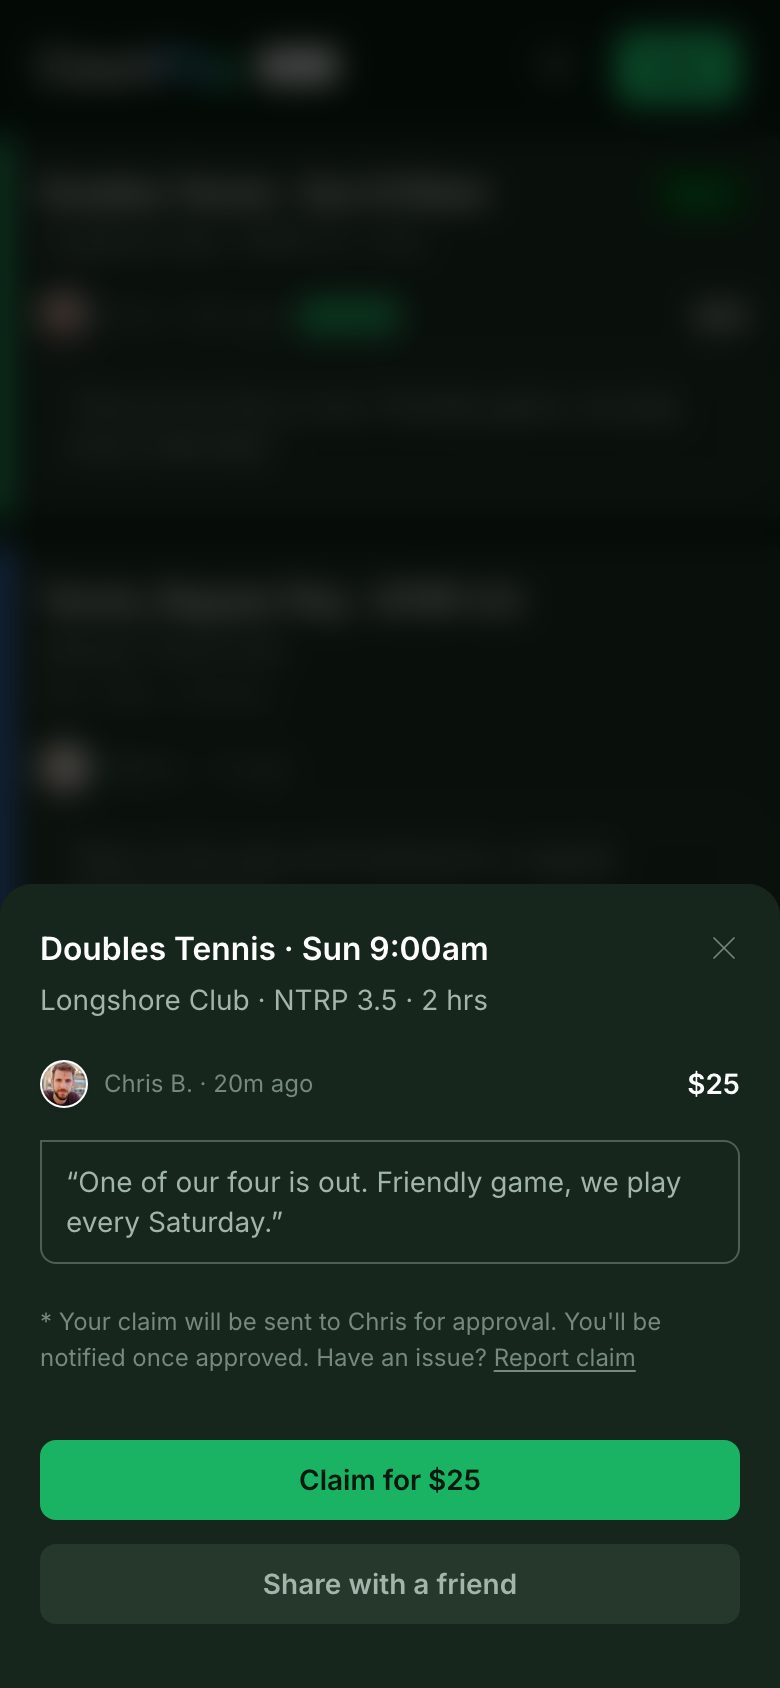
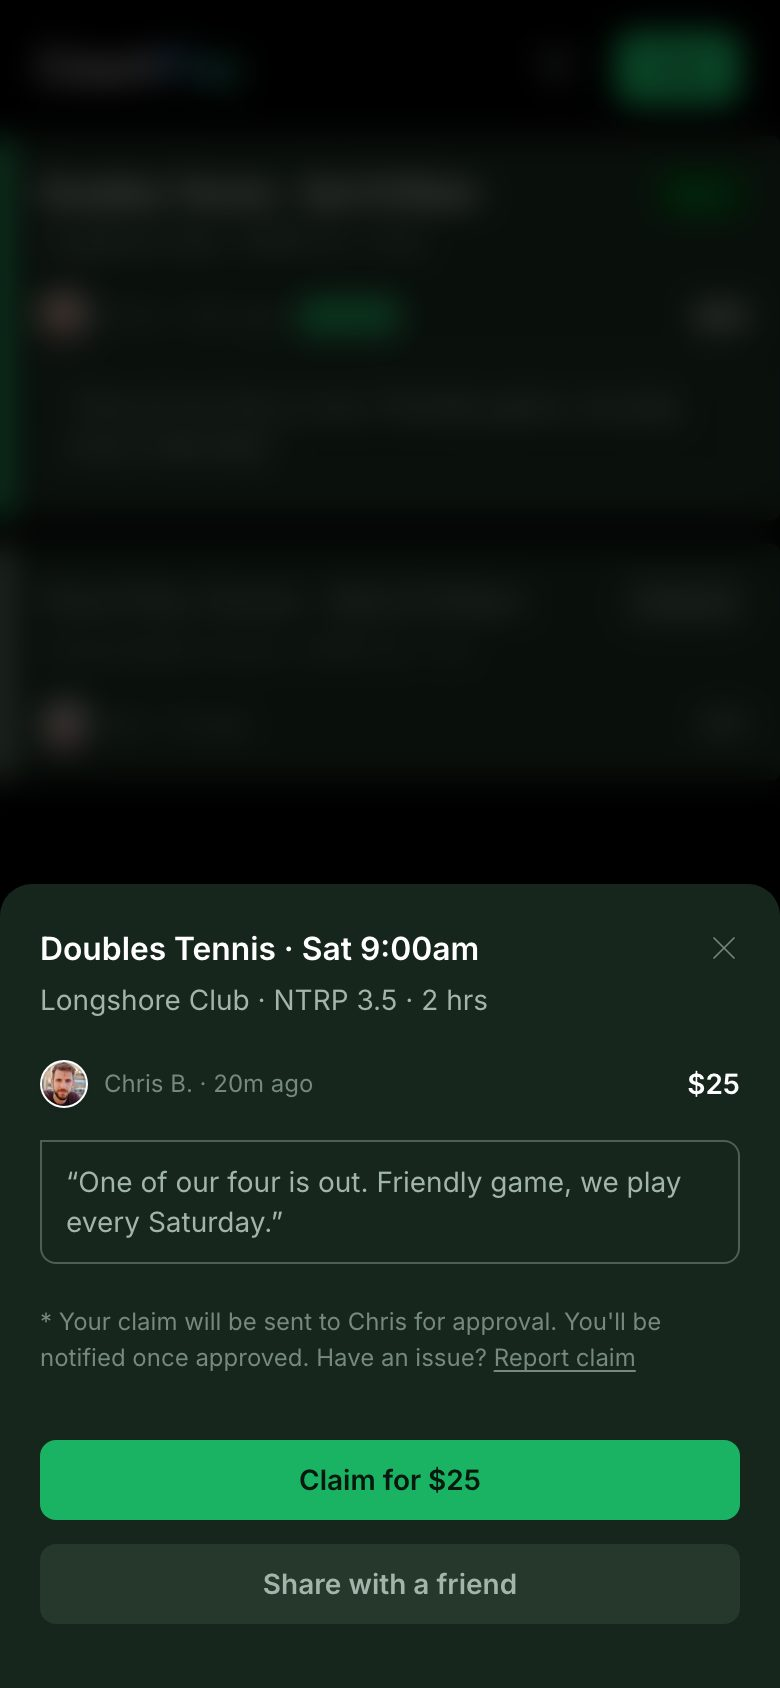
Work through the per-step notes on the tutorial (#235)
Step 1  the "You're in a group" banner. The feed only raises it for a group
        you did NOT create, are still in, and joined inside a week, so the
        demo group changed to match; the post now reads Sat.

Step 2  the blue smear down the left edge was a regular-play card's accent bar
        behind the backdrop blur. The backdrop is sub cards only.

Step 3  the Reply field. It renders only when the sheet is given somewhere to
        send to, and the demo was not passing onReply.

Step 5  Created posts, two open posts. Activity reads its tab from ?tab=, set
        on the router DemoProviders creates -- nesting a second Router is an
        error in react router, which is how the first attempt failed.

Step 6  the second group is active rather than closed.

All     no Beta pill, and black behind the whole screen. The app's own
        bg-primary showed as a lighter strip above and below the content,
        where a real device has its status bar and browser chrome.

        Both are screenshot-only: they live in demo-entry.tsx, which runs
        behind demo.html during a capture and is not in the app. Verified --
        the built bundle still ships the Beta tag and neither override.

        The tutorial itself locks vertical scroll, so it swipes sideways and
        does not rubber-band like a web page. Skip and Go to CourtPlay use
        text-brand-500, the design's text/brand.

NOT DONE: an avatar image for the demo player on step 6. There are three
[…]

Changed region(s): [[0.0, 0.4005, 0.1231, 0.5545], [0.3077, 0.0, 0.4615, 0.0616], [0.4, 0.5545, 0.6154, 0.5853]]

diff --git a/src/demo/screens.tsx b/src/demo/screens.tsx
@@ -4,10 +4,9 @@ import { Profile } from "@/pages/profile";
 import { PostNew } from "@/pages/post-new";
 import { AppLayout } from "@/components/layout/app-layout";
 import { SubCard } from "@/components/app/sub-card";
-import { RegularPlayCard } from "@/components/app/regular-play-card";
 import { ClaimDetailSheet } from "@/components/app/claim-detail-sheet";
 import { CreatedDetailSheet } from "@/components/app/created-detail-sheet";
-import { DEMO_MY_POST, DEMO_POSTER, DEMO_SUB_POST, DEMO_REGULAR_POST, DEMO_VIEWER_ID } from "./fixtures";
+import { DEMO_MY_POST, DEMO_POSTER, DEMO_CLAIMED_POST, DEMO_SUB_POST, DEMO_VIEWER_ID } from "./fixtures";
 
 /**
  * The screens behind the tutorial screenshots.
@@ -28,12 +27,18 @@ import { DEMO_MY_POST, DEMO_POSTER, DEMO_SUB_POST, DEMO_REGULAR_POST, DEMO_VIEWE
  */
 const noop = () => {};
 
-/** The feed behind a sheet: in the app every sheet opens over it. */
+/**
+ * The feed behind a sheet: in the app every sheet opens over it.
+ *
+ * Sub cards only. A regular-play card's blue accent bar smears into a blue
+ * gradient down the left edge once the backdrop blur hits it, which reads as a
+ * rendering fault rather than as a card.
+ */
 const FeedBehind = () => (
     <AppLayout onOpenFilters={noop}>
         <div className="flex flex-col gap-3">
             <SubCard post={DEMO_SUB_POST} currentUserId={DEMO_VIEWER_ID} />
-            <RegularPlayCard post={DEMO_REGULAR_POST} profileComplete currentUserId={DEMO_VIEWER_ID} />
+            <SubCard post={DEMO_CLAIMED_POST} currentUserId={DEMO_VIEWER_ID} />
         </div>
     </AppLayout>
 );
@@ -59,6 +64,9 @@ export const DEMO_SCREENS: Record<string, () => React.ReactElement> = {
                 onDecline={noop}
                 onEdit={noop}
                 onDelete={noop}
+                // The reply field only renders when the sheet is given somewhere
+                // to send to, and the design shows it.
+                onReply={noop}
             />
         </>
     ),
@@ -68,6 +76,17 @@ export const DEMO_SCREENS: Record<string, () => React.ReactElement> = {
     activity: () => <Activity />,
 
     groups: () => <Profile />,
+};
+
+/**
+ * Where a screen believes it is. Activity opens on the tab named in ?tab=, and
+ * the design shows Created posts.
+ *
+ * Set on the router DemoProviders creates, rather than by nesting one — react
+ * router forbids a Router inside a Router.
+ */
+export const SCREEN_ROUTES: Record<string, string> = {
+    activity: "/activity?tab=created",
 };
 
 export type DemoScreenId = keyof typeof DEMO_SCREENS;

diff --git a/src/demo/fixtures.ts b/src/demo/fixtures.ts
@@ -83,7 +83,7 @@ export const DEMO_SUB_POST: FeedPost = {
     post_type: "sub_need",
     play_type: "doubles",
     duration: 2,
-    game_date: "2026-05-17",
+    game_date: "2026-05-16",
     game_time: "09:00",
     skill_level: "3.5",
     location: "Longshore Club",
@@ -206,10 +206,12 @@ export const DEMO_GROUPS: GroupSummary[] = [
         id: "demo-group-1",
         name: "Sunday Doubles",
         details: "Longshore Club",
-        is_creator: true,
+        // Not the creator, and joined recently: both are required for the feed's
+        // "You're in a group" banner, which step 1 is meant to show.
+        is_creator: false,
         is_closed: false,
         closed_at: null,
-        joined_at: ago(60 * 24 * 30),
+        joined_at: ago(45),
         my_removed_at: null,
         removed_by_me: false,
         member_count: 4,
@@ -224,9 +226,9 @@ export const DEMO_GROUPS: GroupSummary[] = [
         id: "demo-group-2",
         name: "Winter League",
         details: "Westport Tennis Club",
-        is_creator: false,
-        is_closed: true,
-        closed_at: ago(60 * 24 * 3),
+        is_creator: true,
+        is_closed: false,
+        closed_at: null,
         joined_at: ago(60 * 24 * 90),
         my_removed_at: null,
         removed_by_me: false,
@@ -235,6 +237,33 @@ export const DEMO_GROUPS: GroupSummary[] = [
             { id: "demo-maria", first_name: "Maria", last_name: "L", photo_url: "/avatars/maria.jpg" },
             { id: DEMO_VIEWER_ID, first_name: "Alex", last_name: "R", photo_url: null },
         ],
+    },
+];
+
+/**
+ * Two of the demo player's own posts, both open — the Created posts tab as the
+ * design shows it. No claims: a claim would file a post under Pending rather
+ * than Active, and the badge would read Claimed rather than Open.
+ */
+export const DEMO_CREATED_POSTS: MyPost[] = [
+    {
+        ...DEMO_MY_POST,
+        id: "demo-created-1",
+        claims: [],
+    },
+    {
+        ...DEMO_MY_POST,
+        id: "demo-created-2",
+        play_type: "point_play",
+        skill_level: "3.5",
+        game_date: "2026-05-23",
+        game_time: "18:00",
+        location: "Compo Beach Courts",
+        duration: 1,
+        cost: 15,
+        notes: "Regular Saturday four, one out this week.",
+        created_at: ago(300),
+        claims: [],
     },
 ];
 

diff --git a/src/components/app/tutorial-carousel.tsx b/src/components/app/tutorial-carousel.tsx
@@ -52,10 +52,24 @@ export function TutorialCarousel({
         if (next) new Image().src = next.image;
     }, [index, slides]);
 
+    // Side swiping only. Without this the page rubber-bands vertically under a
+    // drag, which is the giveaway that it is a web page rather than an app.
+    useEffect(() => {
+        const html = document.documentElement;
+        const prevOverflow = document.body.style.overflow;
+        const prevOverscroll = html.style.overscrollBehavior;
+        document.body.style.overflow = "hidden";
+        html.style.overscrollBehavior = "none";
+        return () => {
+            document.body.style.overflow = prevOverflow;
+            html.style.overscrollBehavior = prevOverscroll;
+        };
+    }, []);
+
     const last = index === slides.length - 1;
 
     return (
-        <div className="flex h-dvh flex-col gap-8 overflow-hidden bg-black pt-safe">
+        <div className="flex h-dvh flex-col gap-8 overflow-hidden overscroll-none bg-black pt-safe">
             <Carousel.Root setApi={setApi} className="flex min-h-0 flex-1 flex-col gap-8" opts={{ loop: false }}>
                 {/* Carousel.Content puts this className on its inner track; its outer
                     viewport is h-full, so it needs a parent with a definite height. */}
@@ -121,7 +135,7 @@ export function TutorialCarousel({
                     <button
                         type="button"
                         onClick={last ? onDone : onSkip}
-                        className="flex items-center gap-2 text-xs text-brand-secondary transition duration-100 ease-linear hover:text-brand-secondary_hover"
+                        className="flex items-center gap-2 text-xs text-brand-500 transition duration-100 ease-linear hover:text-brand-600"
                     >
                         {last ? "Go to CourtPlay" : "Skip tutorial"}
                         {last && (

diff --git a/src/demo/demo-entry.tsx b/src/demo/demo-entry.tsx
@@ -35,6 +35,17 @@ globalThis.Date = FrozenDate as DateConstructor;
 for (const key of ["cs_welcome_done", "cs_ios_prompt_dismissed"]) localStorage.setItem(key, "1");
 localStorage.setItem("courtsub_push_prompt_dismissed", "true");
 
+// Screenshot-only styling. The captures sit on a black tutorial page, so the
+// app's own bg-primary showed as a lighter strip above and below the content —
+// where a real device would have the status bar and the browser's toolbar. And
+// the Beta pill is a moment in time, not a feature worth teaching.
+const demoStyle = document.createElement("style");
+demoStyle.textContent = `
+    :root { --color-bg-primary: #000000; }
+    [data-beta-tag] { display: none; }
+`;
+document.head.appendChild(demoStyle);
+
 const id = new URLSearchParams(location.search).get("screen") ?? "";
 const screen = DEMO_SCREENS[id];
 
@@ -52,7 +63,7 @@ if (!screen) {
 } else {
     root.render(
         <ThemeProvider defaultTheme="dark">
-            <DemoProviders>{screen()}</DemoProviders>
+            <DemoProviders screen={id}>{screen()}</DemoProviders>
         </ThemeProvider>,
     );
 }

diff --git a/src/demo/demo-providers.tsx b/src/demo/demo-providers.tsx
@@ -2,6 +2,7 @@ import type { ReactNode } from "react";
 import { MemoryRouter } from "react-router";
 import { ProfileContext } from "@/providers/profile-provider";
 import { DEMO_PROFILE } from "./fixtures";
+import { SCREEN_ROUTES } from "./screens";
 
 /**
  * The context every demo screen renders inside.
@@ -13,9 +14,9 @@ import { DEMO_PROFILE } from "./fixtures";
  * The profile is injected directly rather than fetched, so nothing here touches
  * the network and the screens are identical on every run.
  */
-export function DemoProviders({ children }: { children: ReactNode }) {
+export function DemoProviders({ children, screen }: { children: ReactNode; screen?: string }) {
     return (
-        <MemoryRouter>
+        <MemoryRouter initialEntries={[(screen && SCREEN_ROUTES[screen]) || "/"]}>
             <ProfileContext.Provider
                 value={{
                     profile: DEMO_PROFILE,

diff --git a/src/demo/supabase-mock.ts b/src/demo/supabase-mock.ts
@@ -28,7 +28,7 @@ import {
     DEMO_CLAIMED_POST,
     DEMO_GROUPS,
     DEMO_MY_CLAIMS,
-    DEMO_MY_POST,
+    DEMO_CREATED_POSTS,
     DEMO_PROFILE,
     DEMO_PROFILE_PAGE,
     DEMO_REGULAR_POST,
@@ -47,7 +47,7 @@ const RPC_DATA: Record<string, unknown> = {
     get_feed: [DEMO_SUB_POST, DEMO_REGULAR_POST, DEMO_CLAIMED_POST],
     get_my_groups: DEMO_GROUPS,
     get_profile: DEMO_PROFILE_PAGE,
-    get_my_posts_with_claims: onActivity ? [DEMO_MY_POST] : [],
+    get_my_posts_with_claims: onActivity ? DEMO_CREATED_POSTS : [],
     get_my_claims_with_posts: onActivity ? DEMO_MY_CLAIMS : [],
     get_post_audience: [],
     get_my_tagged_posts: [],

diff --git a/src/__tests__/tutorial-screens.test.tsx b/src/__tests__/tutorial-screens.test.tsx
@@ -59,7 +59,7 @@ describe("tutorial screenshots are current", () => {
 
     for (const id of Object.keys(DEMO_SCREENS)) {
         it(`fingerprints "${id}"`, async () => {
-            const { container } = render(<DemoProviders>{DEMO_SCREENS[id]()}</DemoProviders>);
+            const { container } = render(<DemoProviders screen={id}>{DEMO_SCREENS[id]()}</DemoProviders>);
             // useAuth resolves getSession() after mount and flips `loading`.
             // Hashing before that settles would capture the loading tree.
             await act(async () => {});

diff --git a/src/components/app/beta-tag.tsx b/src/components/app/beta-tag.tsx
@@ -16,6 +16,8 @@ interface BetaTagProps {
 export function BetaTag({ className }: BetaTagProps) {
     return (
         <span
+            // Hook for the tutorial screenshots, which hide the pill.
+            data-beta-tag=""
             className={cx(
                 "inline-flex h-4 shrink-0 -translate-y-px items-center rounded bg-white px-1.5 text-xs font-semibold text-neutral-950",
                 className,
